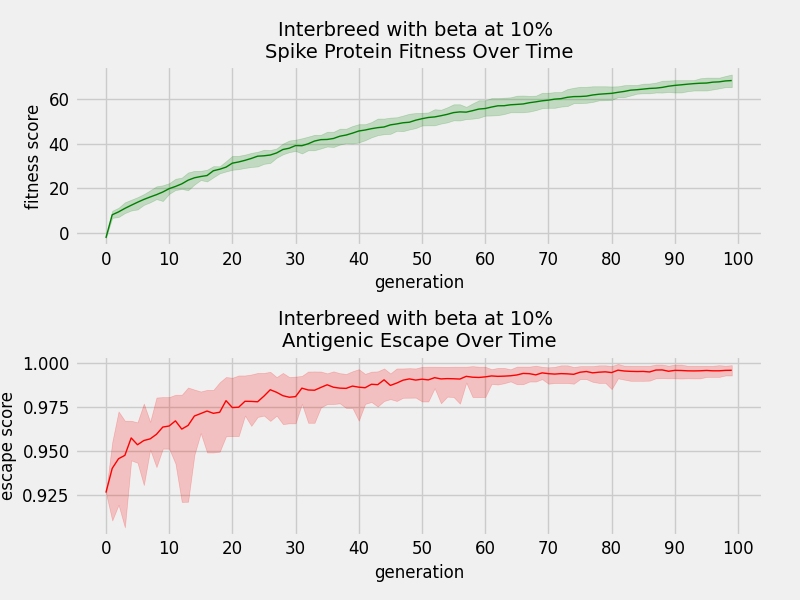
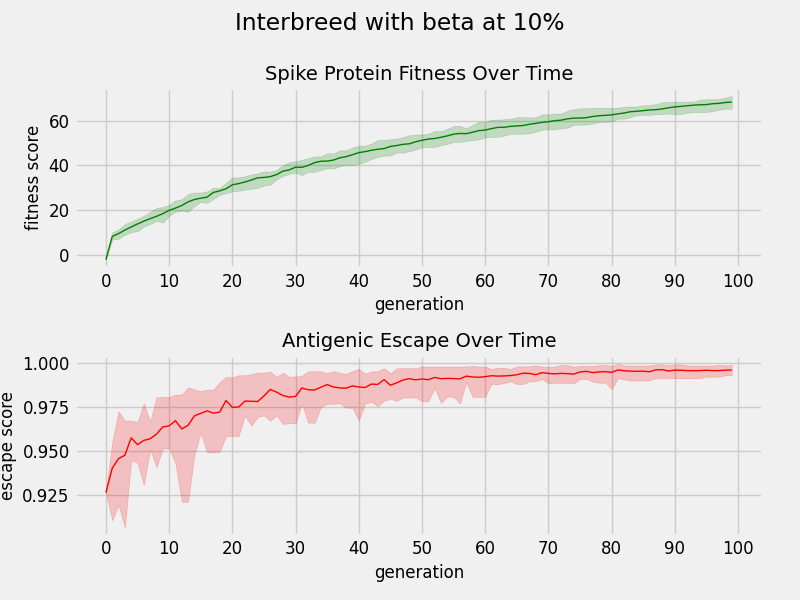
Add super title

diff --git a/analysis_jaime.py b/analysis_jaime.py
@@ -40,8 +40,9 @@ def plot_fitness_escape_over_time(name, prob, fit_low, fit_high, fit_avg, esc_lo
     fig = plt.figure(figsize=(8, 6))
     fit_plot = fig.add_subplot(2, 1, 1)
     esc_plot = fig.add_subplot(2, 1, 2)
-    fit_plot.set_title(f"Interbreed with {name} at {int(float(prob)*100)}% \nSpike Protein Fitness Over Time")
-    esc_plot.set_title(f"Antigenic Escape Over Time")
+    fig.suptitle(f"Interbreed with {name} at {int(float(prob)*100)}%")
+    fit_plot.set_title("Spike Protein Fitness Over Time")
+    esc_plot.set_title("Antigenic Escape Over Time")
 
     xs = range(len(fit_avg))
 
